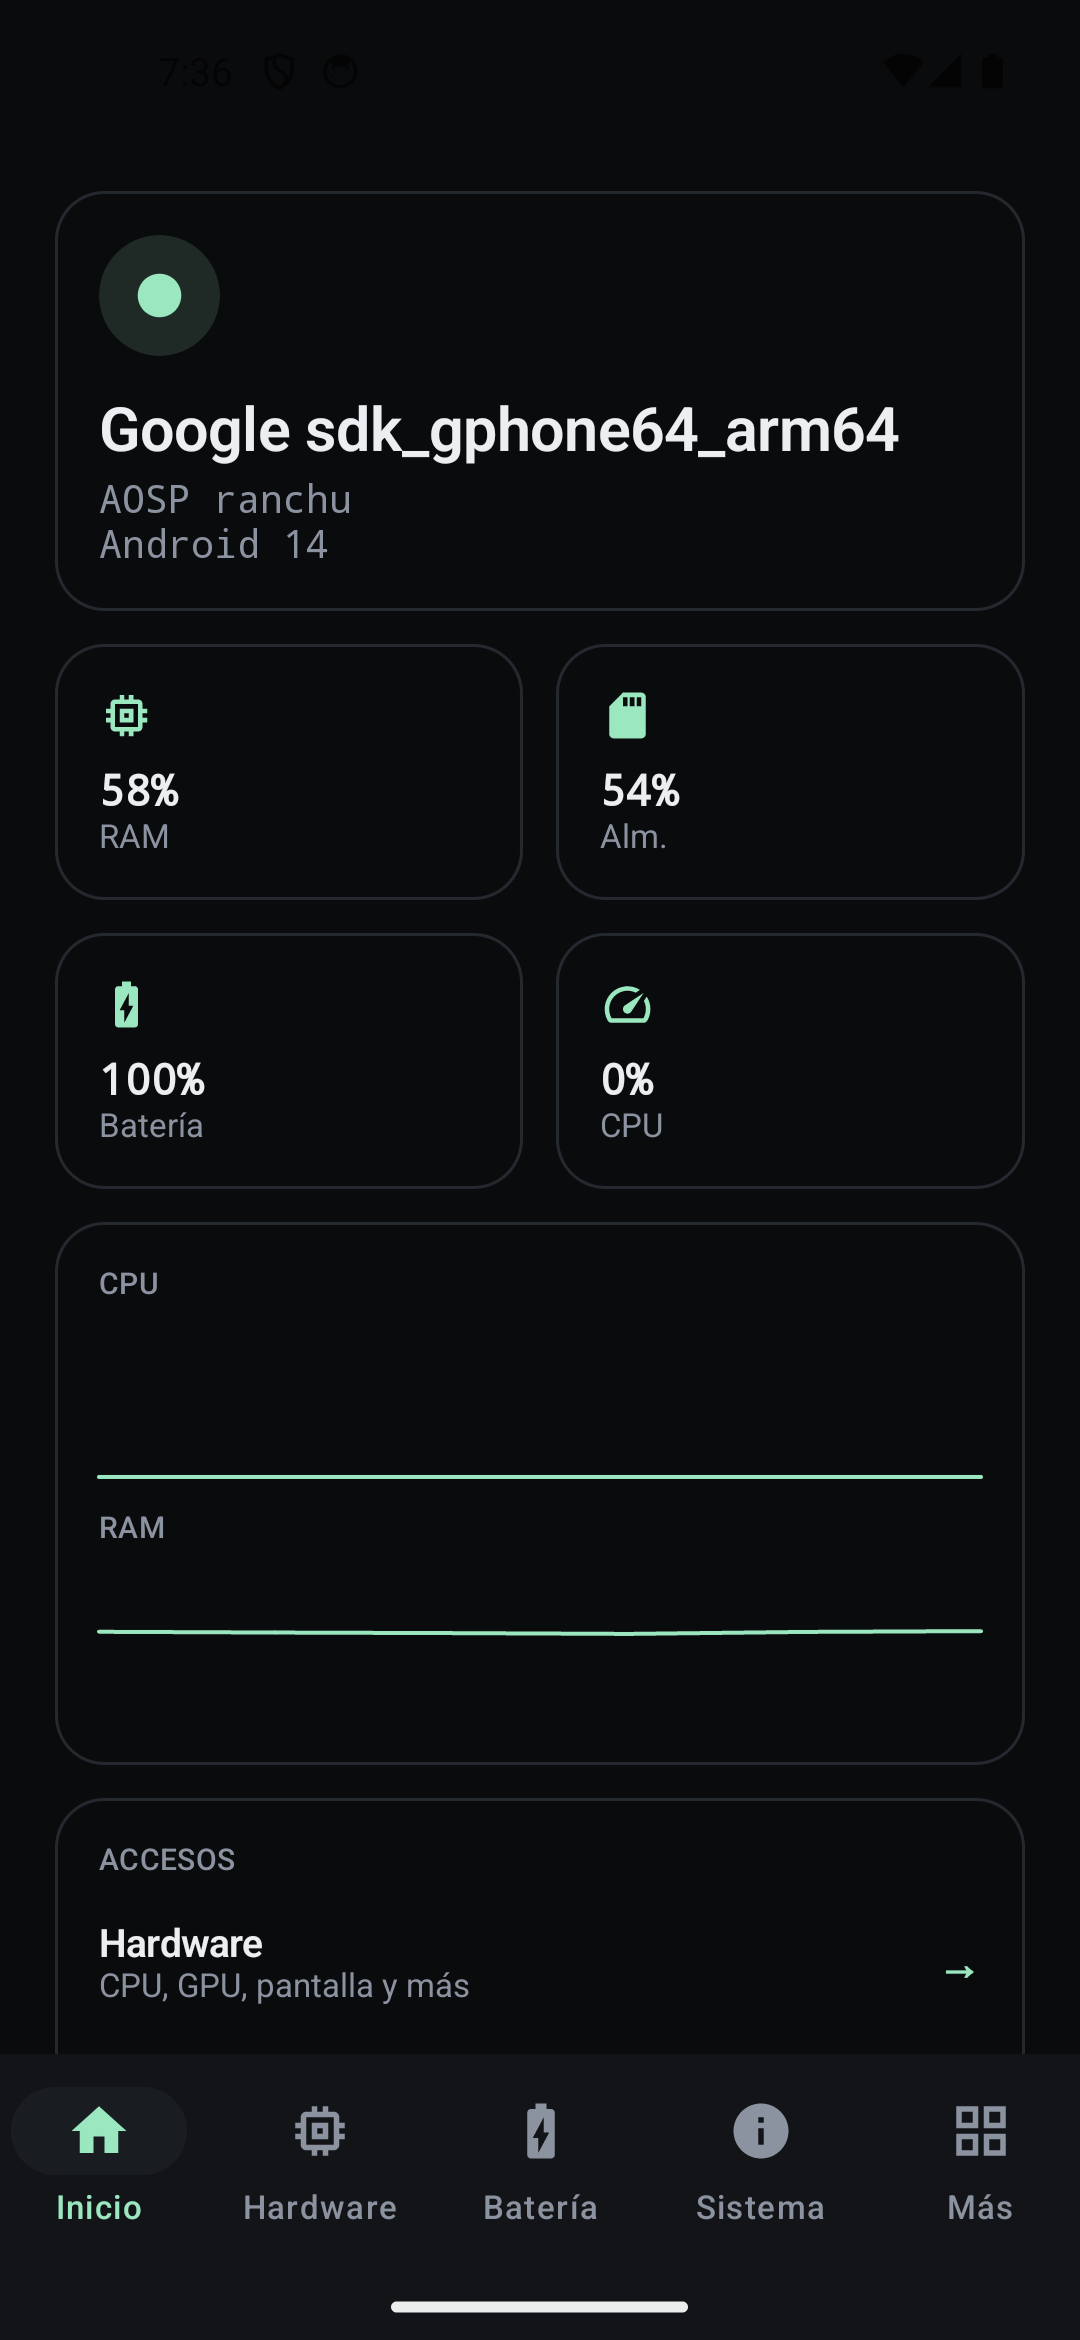
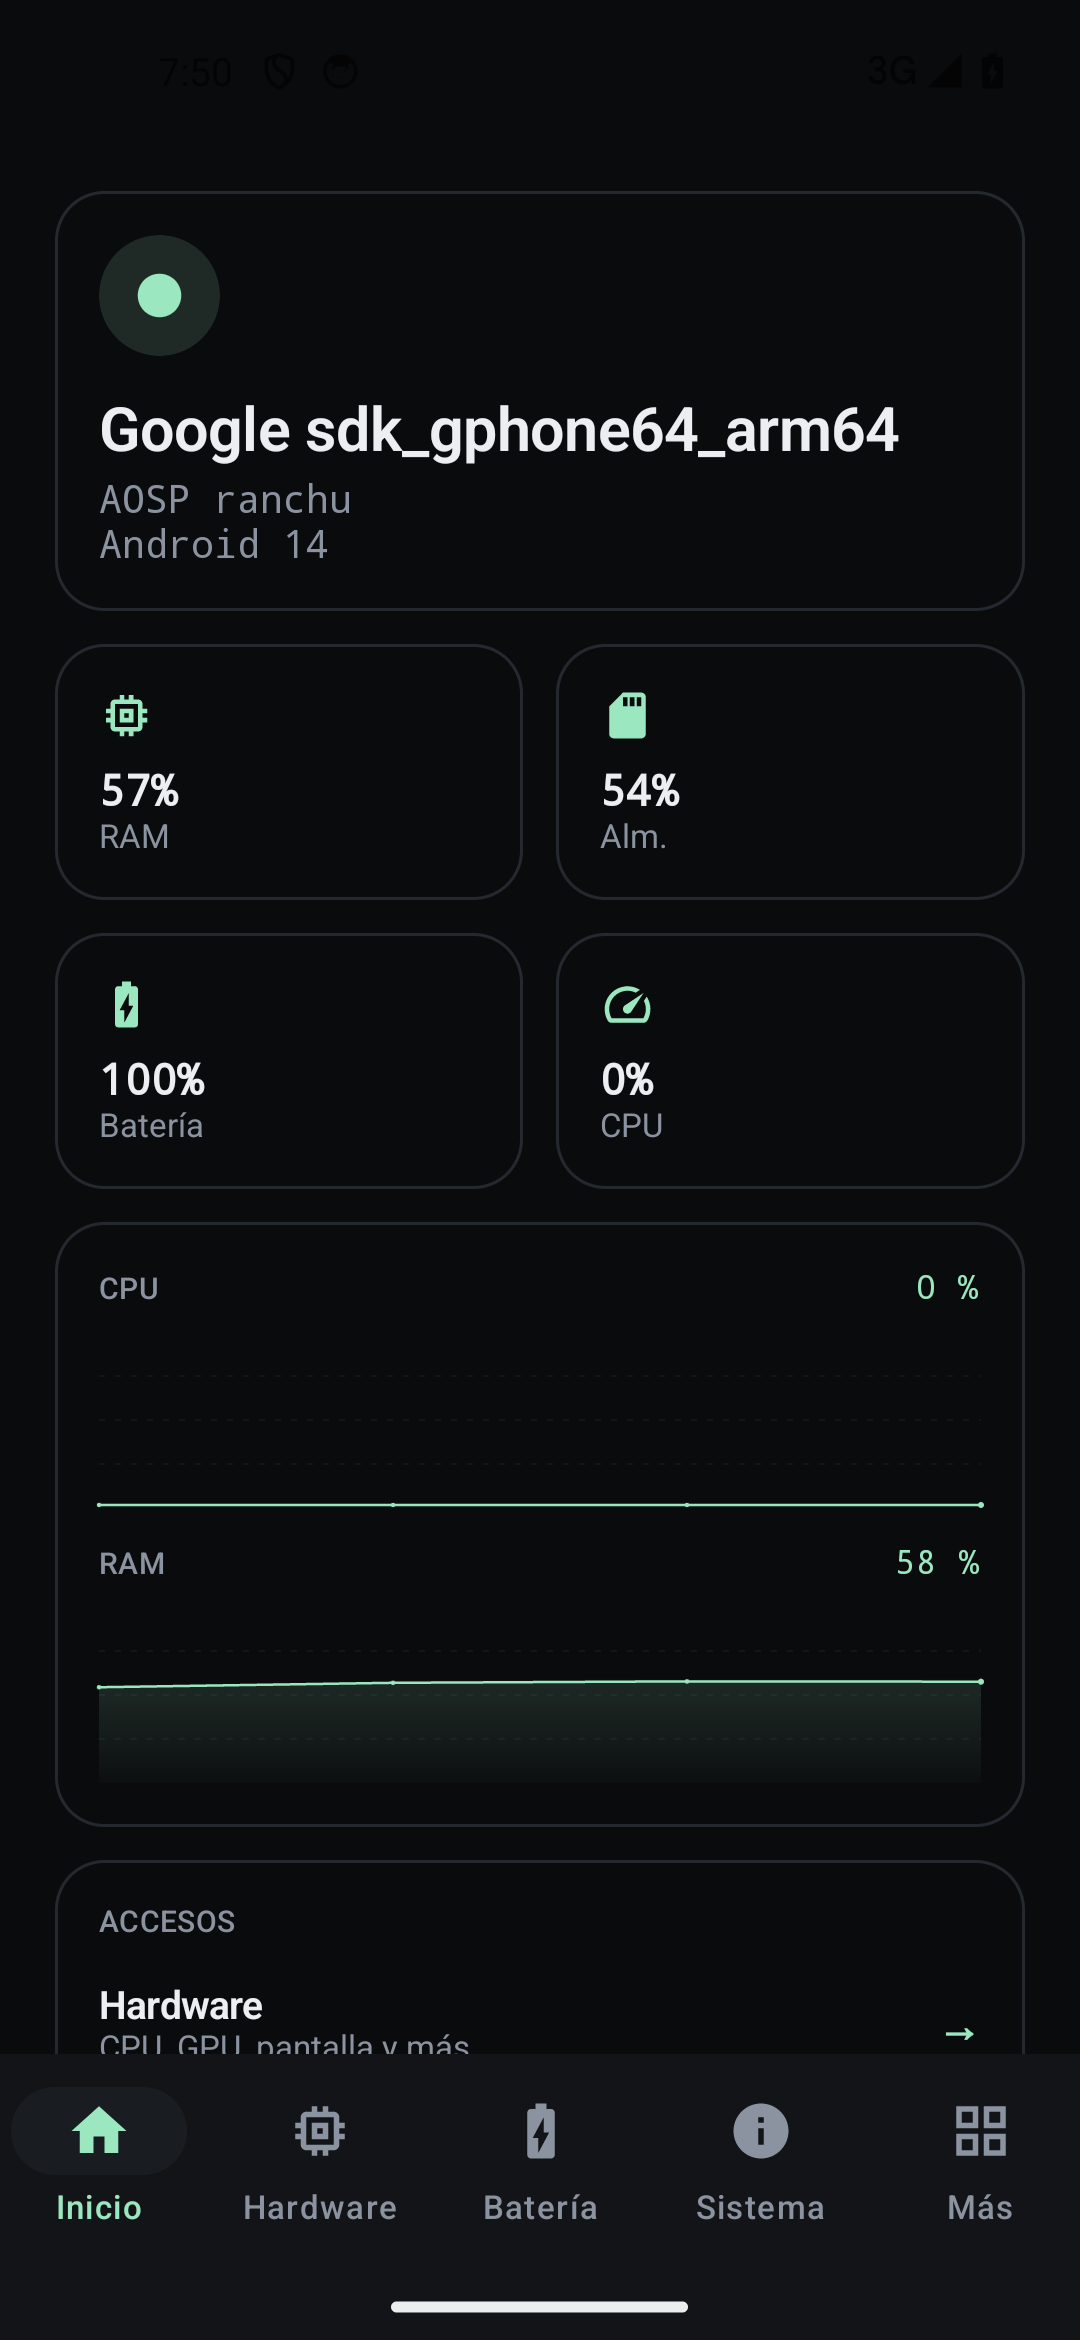
UI: sparklines con área y ejes, núcleos con mín/máx; capturas nuevas; informe de investigación

diff --git a/RESEARCH.md b/RESEARCH.md
@@ -1,0 +1,39 @@
+# Investigación: qué hace DevCheck y cómo se traduce en Lumen
+
+Referencias: ficha de Google Play (`flar2.devcheck`), [devcheck.app/app](https://devcheck.app/app),
+[guía/FAQ oficial](https://devcheck.app/faq) y capturas públicas de la versión 6.x.
+
+## Mapa de funciones de DevCheck
+
+| Área | Qué muestra DevCheck | En Lumen Android | En Lumen Web |
+| --- | --- | --- | --- |
+| Panel | Resumen del dispositivo y monitor en vivo | Sí (hero + métricas + sparklines) | Sí (hero + métricas + FPS/batería/RAM) |
+| CPU | Modelo, núcleos, frecuencias mín/actual/máx, gobernador, carga, ABI | Sí, con frecuencias por núcleo desde sysfs y carga media | Parcial: `hardwareConcurrency`, UA-CH, sin frecuencias |
+| GPU | Renderer, vendor, versión GLES, extensiones | Sí vía EGL | Sí vía `WEBGL_debug_renderer_info` y WebGPU |
+| Pantalla | Resolución, densidad, refresco, HDR, tamaño | Sí | Sí (limitado por el navegador) |
+| Memoria | Total, disponible, uso por app (root) | Total/disponible (sin uso por app) | `deviceMemory` y heap JS |
+| Almacenamiento | Volúmenes, total/libre, velocidad | Sí (StatFs) | `storage.estimate` |
+| Batería | Nivel, salud, ciclos, corriente, voltaje, potencia, temperatura, historial | Sí (lo que expone el driver) | Nivel y estado de carga; el resto no existe en la API web |
+| Cámaras | Número, resoluciones, focal, ISO | Sí (`CameraManager`) | Solo número de dispositivos de vídeo |
+| Sensores | Lista completa + valores en vivo | Sí (`SensorManager`) | Acelerómetro/giroscopio con permiso explícito |
+| Red | WiFi/celular/ethernet, operador, señal, IPs, DNS | Sí | Parcial (Network Information API) |
+| Apps | Lista buscable, permisos, instalador, manifest | Lista con icono, versión, targetSdk y tamaño | No existe en el navegador |
+| Tests | Benchmark CPU/RAM/disco/GPU, tests de pantalla y batería | CPU, memoria y disco | No (solo FPS como referencia) |
+| Extras | Widgets, monitores flotantes, Shizuku/root | No (requiere privilegios o servicios del sistema) | No |
+
+## Decisiones de producto
+
+1. **Sin permisos agresivos al arrancar.** DevCheck pide acceso root/Shizuku para temperaturas y ciclos de
+   batería. Lumen no: muestra «No disponible» y mantiene la app utilizable en cualquier móvil.
+2. **Misma estructura en las dos plataformas.** Inicio, Hardware, Batería, Sistema, Red, Sensores (y Apps/Tests
+   solo donde tienen sentido). Así la web se entiende como una versión de consulta rápida.
+3. **Un solo acento y jerarquía tipográfica.** DevCheck usa una paleta multicolor por categoría; Lumen usa
+   menta sobre casi-negro para que los datos manden y la interfaz desaparezca.
+4. **Cero red.** No hay catálogo de dispositivos, rankings ni envío de datos: todo se calcula en local.
+
+## Limitaciones conocidas de Android
+
+- Frecuencias y gobernador dependen de `/sys/devices/system/cpu/*`, bloqueado o ausente en muchos equipos.
+- Temperaturas, ciclos de carga y salud real de batería suelen requerir root o Shizuku.
+- `QUERY_ALL_PACKAGES` es válido para sideload, pero Google Play lo restringe.
+- En emuladores, varios valores aparecen a 0 o «No disponible» porque no hay hardware real.
